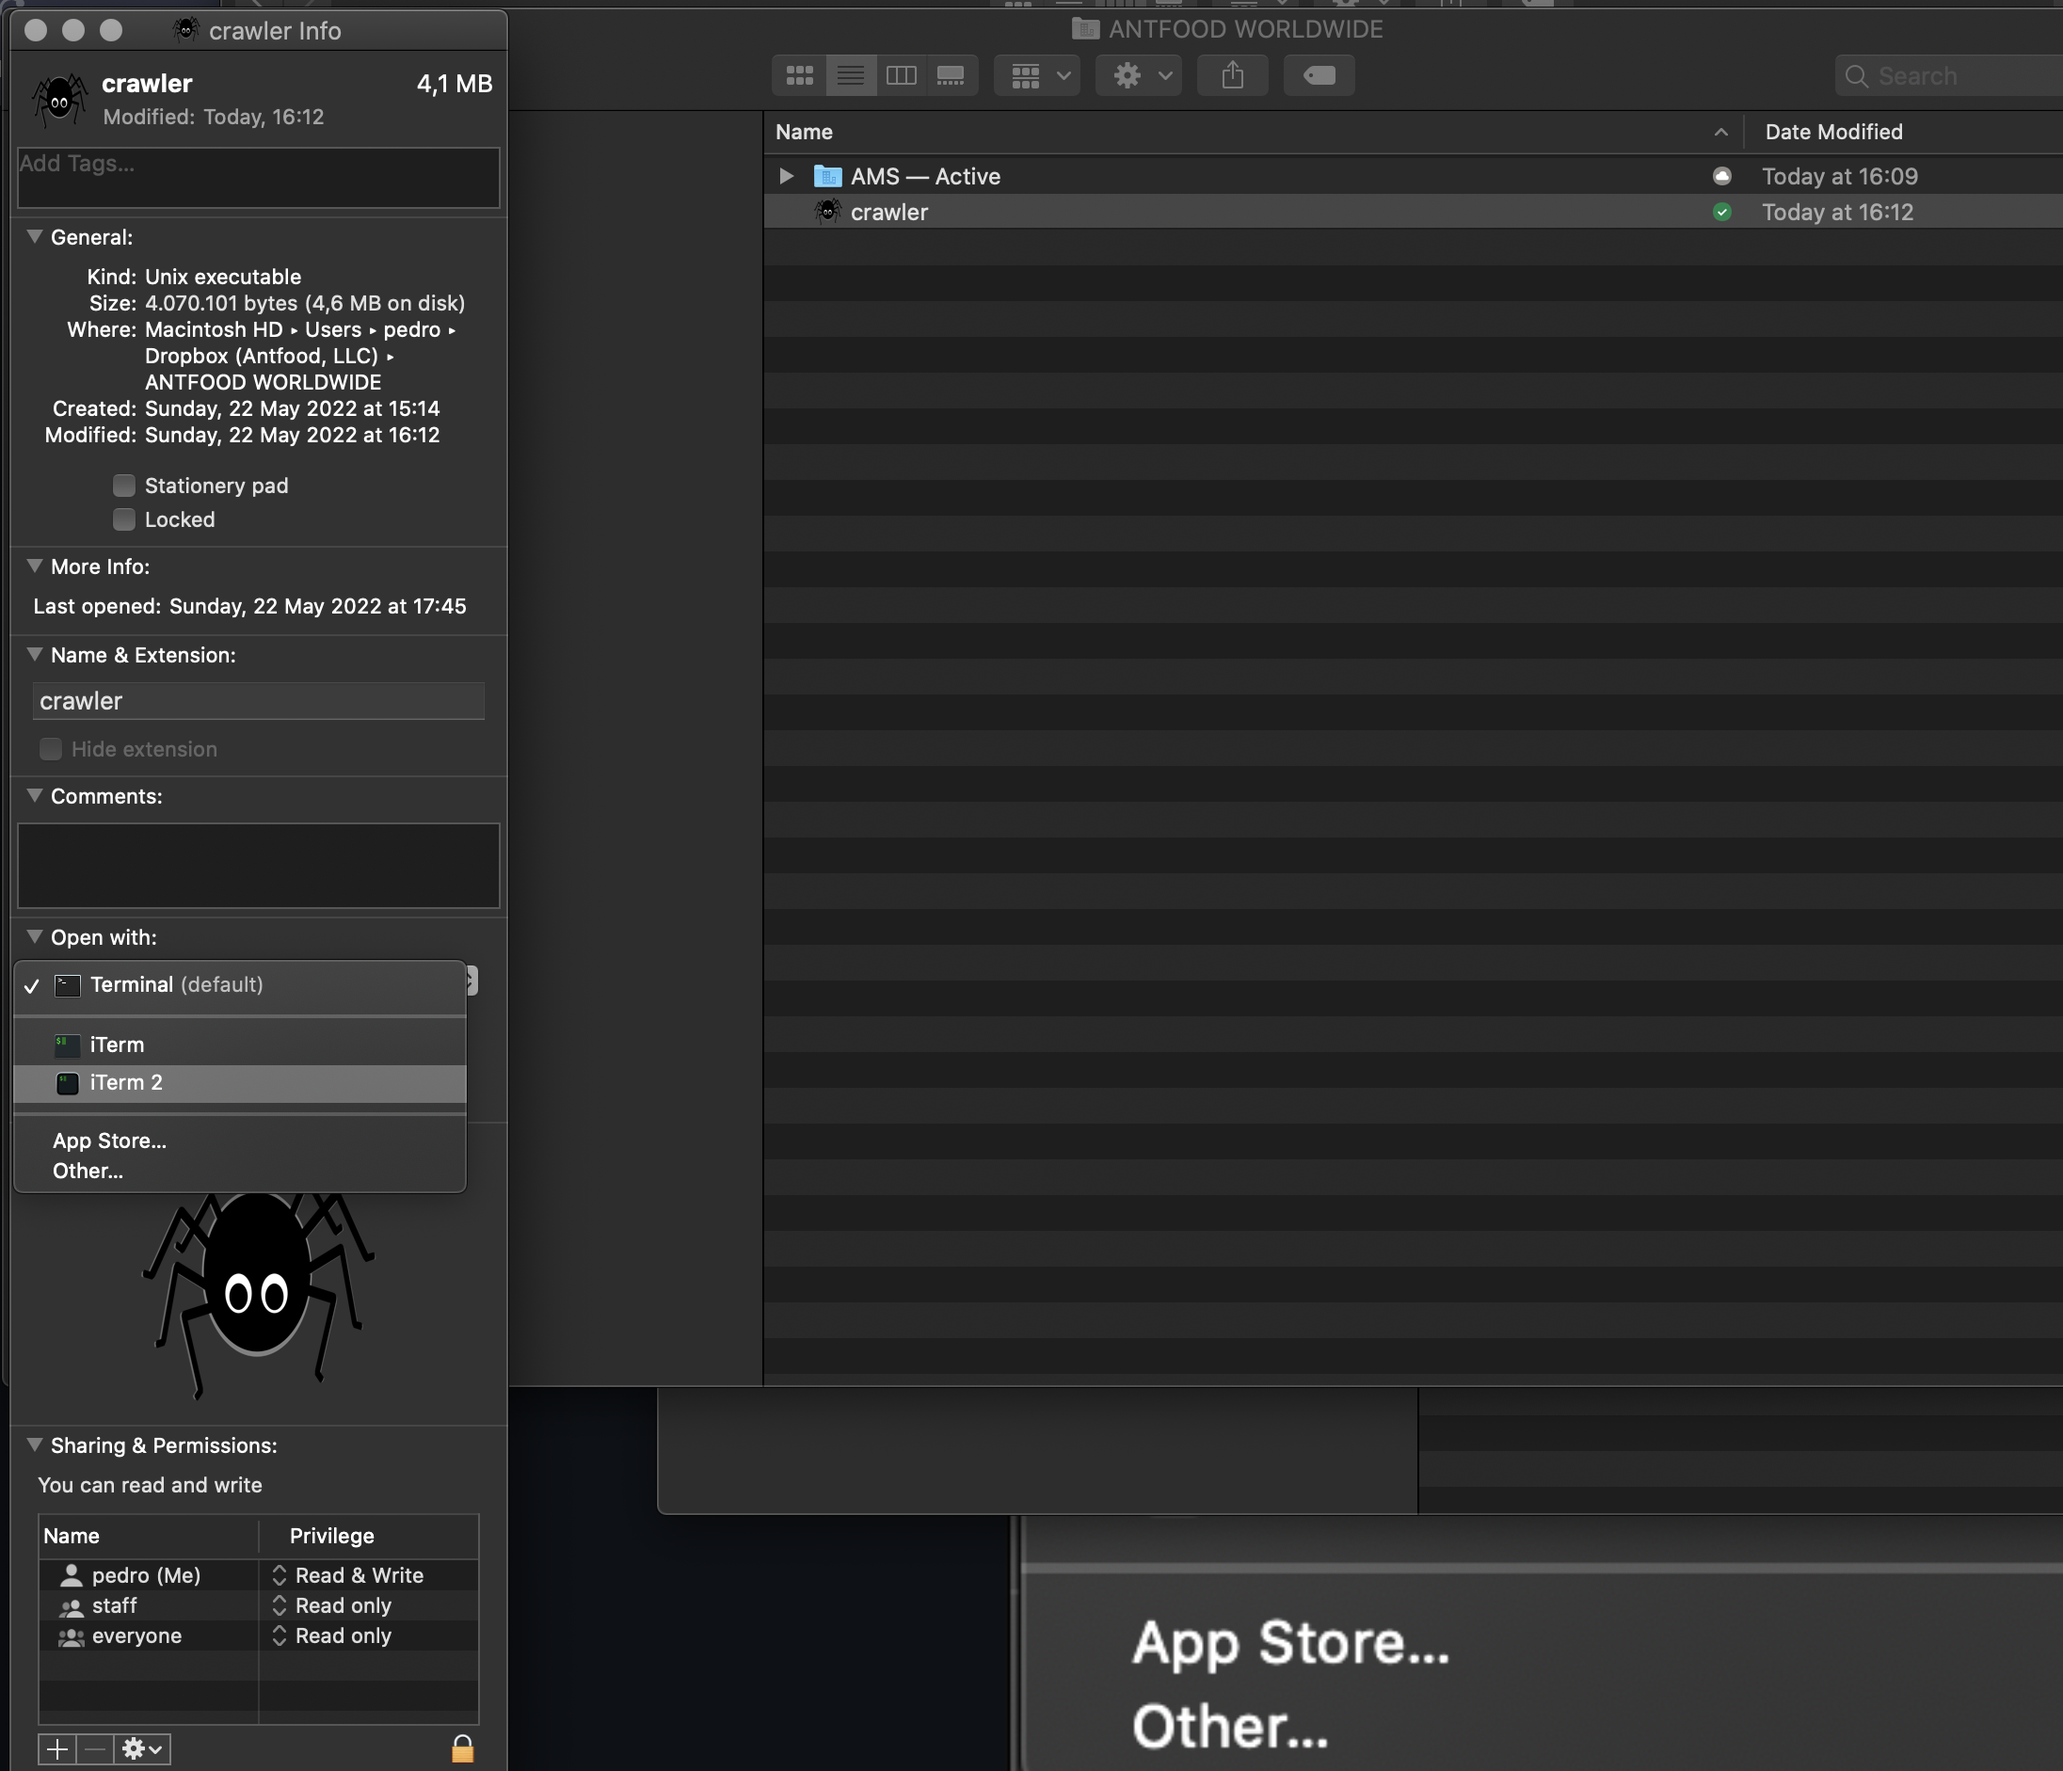
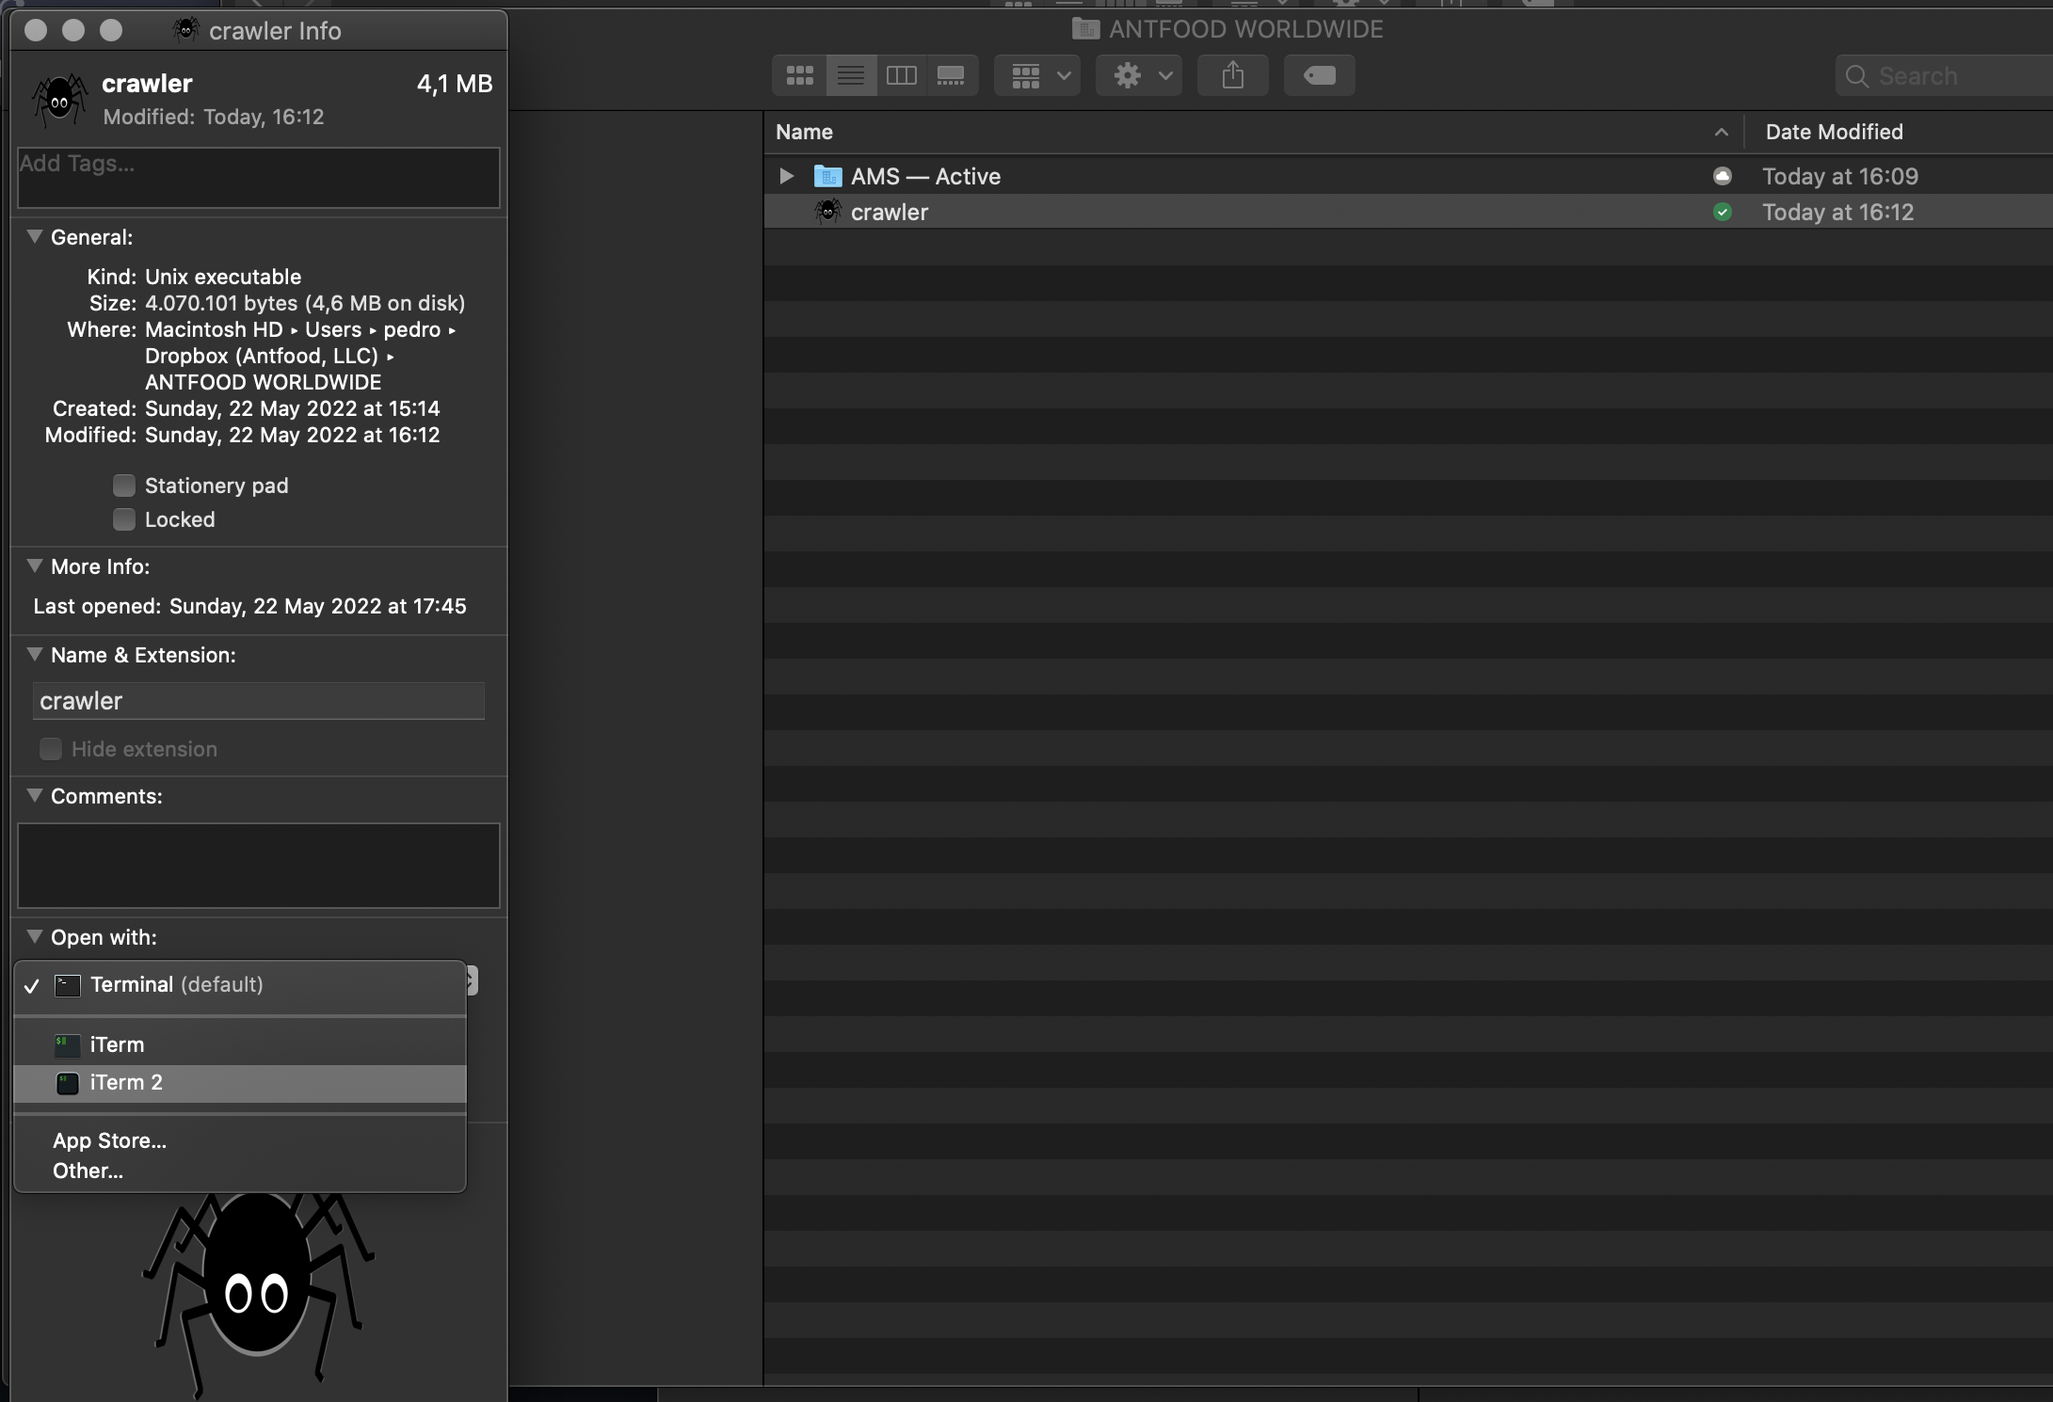
updated readme with pictures

Changed region(s): [[0.0, 0.0, 1.0, 1.0], [0.343, 0.0, 1.0, 0.1852], [0.7483, 0.0, 0.7795, 0.0309]]

diff --git a/README.md b/README.md
@@ -1,10 +1,18 @@
 # Crawler
 
-This program specifically targets Antfood's dropbox. So in order to run you must have it synced to your computer.
-Failing to find a `Dropbox (Antfood, LLC)` directory in your home folder the program will quit immediately 
-warning the user.
+Crawler is a user-friendly terminal application that will help you find library recordings with the wrong format 
+filename and provide a quick way to fix it. No commands are required — the program will prompt you
+with a text-based user interface and walk you through the whole process.
 
-This app is designed to be used in OSX only. 
+![crawler](https://github.com/Antfood/crawler/blob/main/img/crawler.png?raw=true)
+
+Crawler runs on OSX only.
+
+## Dropbox
+
+The program specifically targets Antfood's dropbox. So in order to run it you must have dropbox synced to your computer.
+Failing to find a `Dropbox (Antfood, LLC)` directory in your home directory, crawler will quit immediately while
+warning the user.
 
 ## Usage
 You can launch the app by double-clicking on its icon on a finder window. This will prompt a terminal
@@ -15,6 +23,23 @@ app is in your Desktop
 
        $ cd Desktop
        $ ./crawler
+
+## Terminal
+The terminal is the main window for user interaction with crawler. 
+So depending on the terminal program you will have a different experience. 
+
+
+OSX terminal is great but offers only very basic color configuration. If you are having
+trouble reading text prompts you can adjust the colors in preferences. Tick all the preferences below.
+
+![crawler](https://github.com/Antfood/crawler/blob/main/img/terminal.png?raw=true)
+
+For a better experience it is recommended to use a terminal emulator with 24-bit color such as [iterm2](`https://iterm2.com/`).
+To launch crawler in iterm2 right click on Crawler then get info and change `Open with` to iterm2.
+
+
+![crawler](https://github.com/Antfood/crawler/blob/main/img/iterm2.png?raw=true)
+
 
 ## Build
 
